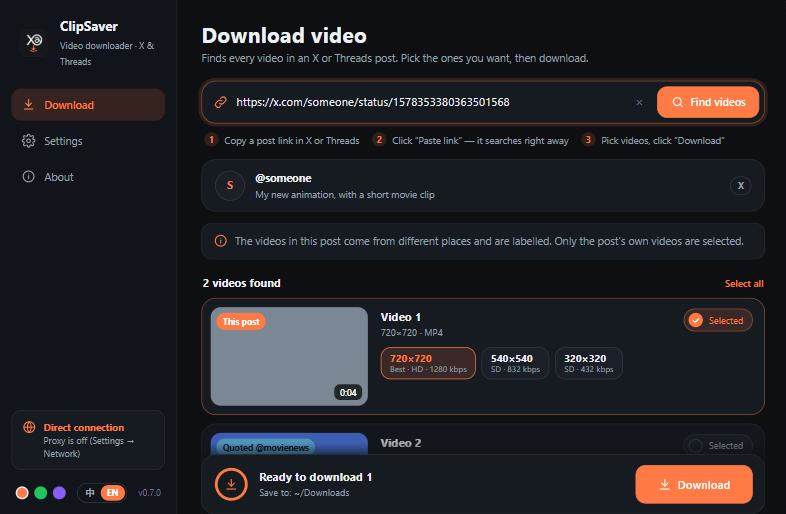
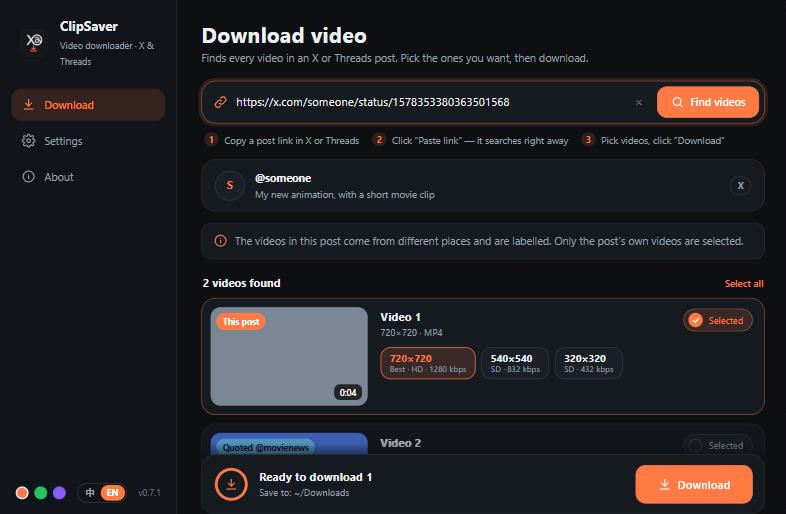
v0.7.1: faster reading of browser-only Threads videos (~12s -> ~4s); hide network box when proxy is off

diff --git a/clipsaver/ui.html b/clipsaver/ui.html
@@ -397,7 +397,7 @@ const T = {
     emptyTitle: '还没有链接', emptySites: 'x.com · twitter.com · threads.com · threads.net，分享链接也可以',
     legMain: '本帖', legMainD: '帖子自己的视频', legQuote: '引用帖', legQuoteD: '被引用的帖子里的', legCard: '卡片', legCardD: '藏在卡片 / 广告里的',
     looking: '正在查找…',
-    slow: '还在找… 有些视频（比如从 Instagram 分享到 Threads 的）要像浏览器一样打开帖子才能读到，需要多等 10 秒左右。',
+    slow: '还在找… 有些视频（比如从 Instagram 分享到 Threads 的）要像浏览器一样打开帖子才能读到，会多花几秒。',
     clipEmpty: '剪贴板里没有链接。先在 X 或 Threads 里复制帖子链接，再点「粘贴链接」。',
     noResponse: '程序没响应，请重新打开 ClipSaver。',
     copyErr: '复制错误信息', copied: '已复制 ✓', techInfo: '技术信息（发给别人帮你看时用）', openNet: '打开网络设置',
@@ -436,7 +436,7 @@ const T = {
     emptyTitle: 'No link yet', emptySites: 'x.com · twitter.com · threads.com · threads.net — share links work too',
     legMain: 'This post', legMainD: 'the post’s own video', legQuote: 'Quoted', legQuoteD: 'inside the quoted post', legCard: 'Card', legCardD: 'hidden in a card or ad',
     looking: 'Looking…',
-    slow: 'Still looking… Some videos (e.g. shared from Instagram to Threads) can only be read by opening the post like a browser does — about 10 more seconds.',
+    slow: 'Still looking… Some videos (e.g. shared from Instagram to Threads) can only be read by opening the post like a browser does — a few more seconds.',
     clipEmpty: 'There is no link on the clipboard. Copy a post link in X or Threads first, then click “Paste link”.',
     noResponse: 'ClipSaver is not responding. Please reopen it.',
     copyErr: 'Copy error details', copied: 'Copied ✓', techInfo: 'Technical details (for whoever helps you)', openNet: 'Open network settings',
@@ -533,6 +533,7 @@ function saveProxies() { store('proxies', myProxies.length ? JSON.stringify(myPr
 const addrOf = (p) => p.replace(/^[a-z0-9]+:\/\//i, '').toLowerCase();
 
 function renderSwitch() {
+  $('#statusbox').hidden = !proxyOn;          // direct connection: nothing to show
   $('#proxyswitch').setAttribute('aria-checked', String(proxyOn));
   $('#switchnote').textContent = proxyOn ? t('switchOn') : t('switchOff');
   $('#net').textContent = proxyOn ? t('netProxy') : t('netDirect');
@@ -687,7 +688,7 @@ async function find() {
   $('#dock').hidden = true;
   current = null;
   out.innerHTML = `<div class="msg">${icon('search')}<div class="body" id="lookmsg">${t('looking')}</div></div>`;
-  const slow = setTimeout(() => { const m = $('#lookmsg'); if (m) m.textContent = t('slow'); }, 4000);
+  const slow = setTimeout(() => { const m = $('#lookmsg'); if (m) m.textContent = t('slow'); }, 2500);
   try {
     const d = await api('/api/inspect', { url, ...netPayload() });
     clearTimeout(slow);

diff --git a/docs/index.html b/docs/index.html
@@ -309,7 +309,7 @@
     <h2><span class="zh">下载不了？</span><span class="en">Can't download?</span></h2>
     <div class="faq">
       <div><b><span class="zh">提示"连不上"</span><span class="en">“Could not reach …”</span></b><p><span class="zh">到「设置 → 网络」看你的代理测试结果是不是「✓」。都不行的话，代理软件可能是「规则」模式，把 X / Threads 分到了直连，试试切到「全局」模式。</span><span class="en">Check in Settings → Network that your proxy tests show “✓”. If none work, your proxy app may be in “Rule” mode and send X / Threads direct — try “Global” mode.</span></p></div>
-      <div><b><span class="zh">查找要等十几秒</span><span class="en">Finding takes 10+ seconds</span></b><p><span class="zh">有些 Threads 视频（比如从 Instagram 分享过来的）要像浏览器一样打开帖子才能读到，会慢一些，是正常的。</span><span class="en">Some Threads videos (e.g. shared from Instagram) have to be read by opening the post like a browser. That is slower, and normal.</span></p></div>
+      <div><b><span class="zh">查找要多等几秒</span><span class="en">Finding takes a few more seconds</span></b><p><span class="zh">有些 Threads 视频（比如从 Instagram 分享过来的）要像浏览器一样打开帖子才能读到，大约 3–5 秒，是正常的。</span><span class="en">Some Threads videos (e.g. shared from Instagram) have to be read by opening the post like a browser. That takes about 3–5 seconds, which is normal.</span></p></div>
       <div><b><span class="zh">提示"没有能下载的视频"</span><span class="en">“No downloadable video”</span></b><p><span class="zh">帖子里只有图片，或者是直播、YouTube 这类外链视频，这些下载不了。</span><span class="en">The post only has photos, or it is a live stream or a link to another site such as YouTube.</span></p></div>
       <div><b><span class="zh">还是不行</span><span class="en">Still stuck</span></b><p><span class="zh">点错误下面的「复制错误信息」，把内容发给帮你的人，里面有具体原因。</span><span class="en">Click “Copy error details” under the error and send it to whoever helps you — it contains the exact cause.</span></p></div>
     </div>

diff --git a/clipsaver/extract.py b/clipsaver/extract.py
@@ -11,6 +11,7 @@ import html
 import json
 import math
 import re
+import threading
 import urllib.error
 import urllib.parse
 import urllib.request
@@ -39,13 +40,15 @@ class Net:
         self.enabled, self.proxies, self.used = enabled, list(proxies or ()), None
 
 
-def fetch(netcfg, url, headers=None, timeout=20):
+def fetch(netcfg, url, headers=None, timeout=20, body=True):
+    """GET a page. body=False only follows redirects and returns the final address
+    (share links: no need to download the 600 KB page behind them)."""
     req = urllib.request.Request(url, headers={'User-Agent': UA, **(headers or {})})
     try:
         resp, route = net.open_url(req, netcfg.enabled, netcfg.proxies, timeout)
         netcfg.used = route.describe()
         with resp as r:
-            return r.geturl(), r.read()
+            return r.geturl(), (r.read() if body else b'')
     except urllib.error.HTTPError as e:
         raise ExtractError(tr(f'网站返回错误 {e.code}（链接可能失效或帖子不公开）',
                               f'The site returned error {e.code} (the link may be broken or the post private)'),
@@ -238,12 +241,11 @@ def parse_threads_embed(page, code):
 # Set by the app when it runs with its own window: reads a post the way a
 # browser does (some videos, e.g. ones shared over from Instagram, are only
 # loaded by Threads' own scripts and are missing from the embed page).
-# Signature: browser_reader(page_url, code) -> [{'src', 'poster', 'w', 'h', 'd'}]
+# Signature: browser_reader(page_url, code, cancel: threading.Event) -> [{'src', 'poster', 'w', 'h', 'd'}]
 browser_reader = None
 
 
-def videos_from_browser(code, author):
-    found = browser_reader(f'https://www.threads.com/t/{code}', code) if browser_reader else []
+def videos_from_browser(found, code, author):
     videos, seen = [], set()
     for v in found:
         src = v.get('src') or ''
@@ -260,21 +262,43 @@ def videos_from_browser(code, author):
 
 
 def extract_threads(code, opener):
-    # A browser User-Agent gets the JS app; a plain one gets server-rendered HTML.
-    _, body = fetch(opener, f"https://www.threads.com/t/{code}/embed",
-                    headers={"User-Agent": "ClipSaver/1.0"})
-    page = body.decode('utf-8', 'replace')
-    if 'HeaderLink' not in page and '<video' not in page:
-        raise ExtractError(tr('这条 Threads 帖子看不到（可能已删除或不公开）', 'This Threads post cannot be seen (deleted or not public).'))
-    result = parse_threads_embed(page, code)
-    if not result['videos'] and browser_reader:
-        result['videos'] = videos_from_browser(code, result['author'])
+    # The quick way (embed page) and the browser way run at the same time; the
+    # browser one is stopped as soon as the quick way has found the videos.
+    reader, cancel, box = None, threading.Event(), {}
+    if browser_reader:
+        def run():
+            try:
+                box['found'] = browser_reader(f'https://www.threads.com/t/{code}', code, cancel)
+            except Exception as e:  # noqa: BLE001
+                box['error'] = e
+        reader = threading.Thread(target=run, daemon=True)
+        reader.start()
+    try:
+        # A browser User-Agent gets the JS app; a plain one gets server-rendered HTML.
+        _, body = fetch(opener, f"https://www.threads.com/t/{code}/embed",
+                        headers={"User-Agent": "ClipSaver/1.0"})
+        page = body.decode('utf-8', 'replace')
+        if 'HeaderLink' not in page and '<video' not in page:
+            raise ExtractError(tr('这条 Threads 帖子看不到（可能已删除或不公开）', 'This Threads post cannot be seen (deleted or not public).'))
+        result = parse_threads_embed(page, code)
+    except ExtractError:
+        if not reader:
+            raise
+        reader.join(30)                      # the quick way failed: the browser way may still work
+        if not box.get('found'):
+            raise
+        result = {'site': 'threads', 'id': code, 'author': '', 'text': '', 'photos': 0, 'videos': []}
+    if result['videos']:
+        cancel.set()
+    elif reader:
+        reader.join(30)
+        result['videos'] = videos_from_browser(box.get('found') or [], code, result['author'])
         result['via_browser'] = bool(result['videos'])
     return result
 
 
 def resolve_share(url, opener):
-    final, _ = fetch(opener, url, headers={"User-Agent": "ClipSaver/1.0"})
+    final, _ = fetch(opener, url, headers={"User-Agent": "ClipSaver/1.0"}, body=False)
     m = THREADS_RE.search(final)
     if not m:
         raise ExtractError(tr('这个分享链接没有跳转到具体帖子', 'This share link does not lead to a post.'))

diff --git a/clipsaver/server.py b/clipsaver/server.py
@@ -297,44 +297,46 @@ READ_JS = r"""
   // the main post = the first block that links to this post's own code
   const main = boxes.find((b) => b.querySelector('a[href*="/post/' + code + '"]')) || boxes[0];
   const vids = main ? [...main.querySelectorAll('video')] : [];
-  return JSON.stringify({ready: document.readyState, vids: vids.map((v) => ({
+  return JSON.stringify({here: location.href.includes(code), ready: document.readyState, vids: vids.map((v) => ({
     src: v.currentSrc || v.src || '', poster: v.poster || '',
     w: v.videoWidth || 0, h: v.videoHeight || 0, d: isFinite(v.duration) ? v.duration : 0}))});
 })()
 """
 READ_LOCK = threading.Lock()
+READER = []   # one hidden window made at start-up and reused, so no start-up wait per search
 
 
-def read_with_browser(page_url, code, timeout=20):
+def read_with_browser(page_url, code, cancel=None, timeout=20):
     """Open the post in a hidden window (same engine and system proxy as a
-    browser), wait for its video to load, and return the video addresses."""
+    browser) and return its video addresses as soon as they appear."""
     import webview
-    with READ_LOCK:   # one hidden window at a time
-        w = webview.create_window('ClipSaver reader', page_url, hidden=True)
+    with READ_LOCK:   # one hidden page at a time
+        reuse = bool(READER)
+        if reuse:
+            w = READER[0]
+            w.load_url(page_url)
+        else:
+            w = webview.create_window('ClipSaver reader', page_url, hidden=True)
         best = []
         try:
             end = time.time() + timeout
-            while time.time() < end:
-                time.sleep(0.5)
+            while time.time() < end and not (cancel and cancel.is_set()):
+                time.sleep(0.15)
                 try:
                     r = json.loads(w.evaluate_js(READ_JS % json.dumps(code)) or '{}')
                 except Exception:  # noqa: BLE001 - page still loading
                     continue
-                vids = [v for v in r.get('vids', []) if v.get('src', '').startswith('https://')]
-                if vids:
-                    best = vids
-                    if r.get('ready') == 'complete':
-                        time.sleep(1.0)    # let other videos of a carousel appear too
-                        try:
-                            r = json.loads(w.evaluate_js(READ_JS % json.dumps(code)) or '{}')
-                            more = [v for v in r.get('vids', []) if v.get('src', '').startswith('https://')]
-                            best = more if len(more) > len(best) else best
-                        except Exception:  # noqa: BLE001
-                            pass
-                        break
+                if not r.get('here'):
+                    continue          # still showing the previous page
+                best = [v for v in r.get('vids', []) if v.get('src', '').startswith('https://')]
+                if best:
+                    break             # found: no extra waiting
         finally:
             try:
-                w.destroy()
+                if reuse:
+                    w.load_url('about:blank')   # stop the page (and its video) in the background
+                else:
+                    w.destroy()
             except Exception:  # noqa: BLE001
                 pass
         return best
@@ -351,6 +353,10 @@ def run_window(url, httpd):
                                        min_size=(760, 560), background_color='#0e1014')
         WINDOW.append(window)
         window.events.closed += lambda *a: exit_soon()
+        try:   # warm up the hidden reader now, not during the user's first search
+            READER.append(webview.create_window('ClipSaver reader', 'about:blank', hidden=True))
+        except Exception:  # noqa: BLE001 - read_with_browser then makes one when needed
+            READER.clear()
         extract.browser_reader = read_with_browser
         threading.Thread(target=httpd.serve_forever, daemon=True).start()
         webview.start()

diff --git a/clipsaver/__init__.py b/clipsaver/__init__.py
@@ -1,1 +1,1 @@
-__version__ = '0.7.0'
+__version__ = '0.7.1'

diff --git a/README.md b/README.md
@@ -45,7 +45,7 @@ A small Mac / Windows app for saving videos from **X (Twitter)** and **Threads**
 |---|---|
 | 连不上 | 到「设置 → 网络」点「新增代理」，填代理软件的端口（例如 `127.0.0.1:7890`），看测试结果是不是 ✓，再打开「代理」。都不行的话，把代理软件切到「全局」模式试试。 |
 | 还是不行 | 点错误下面的「复制错误信息」，把内容发给帮你的人。 |
-| 查找要等十几秒 | 有些 Threads 视频（比如从 Instagram 分享过来的）要像浏览器一样打开帖子才能读到，会慢一些，正常。 |
+| 查找要多等几秒 | 有些 Threads 视频（比如从 Instagram 分享过来的）要像浏览器一样打开帖子才能读到，大约 3–5 秒，正常。 |
 | 没有能下载的视频 | 帖子里只有图片，或者是直播、YouTube 这类外链视频，下载不了。 |
 | 看不到这条推文/帖子 | 帖子被删了、账号上了锁，或者要登录才能看。 |
 | 视频地址过期了 | 页面放了太久。重新点「查找视频」再下载。 |

diff --git a/PROGRESS.md b/PROGRESS.md
@@ -48,3 +48,7 @@
 - Errors selectable + raw detail + Copy error details (server /api/copy). pywebview text_select=True.
 - One main button: Paste link (empty) / Find videos (has text) + 3-step hint.
 - 中/EN switch in app (clipsaver/i18n.py for server messages) and on the homepage (both texts in page, html[data-lang]).
+
+## v0.7.1 (2026-11-26)
+- Browser-only Threads videos: ~12s -> ~3.5-4.5s. Share links follow redirect without downloading the page; embed and hidden-window read run in parallel (reader cancelled when embed has videos); reader window pre-created at start-up and reused (load_url); stops as soon as a video src appears (0.15s polling, no readyState/extra 1s wait). Normal posts 0.6-1.2s.
+- Sidebar network box hidden when Proxy is off (user: direct users do not need it).
